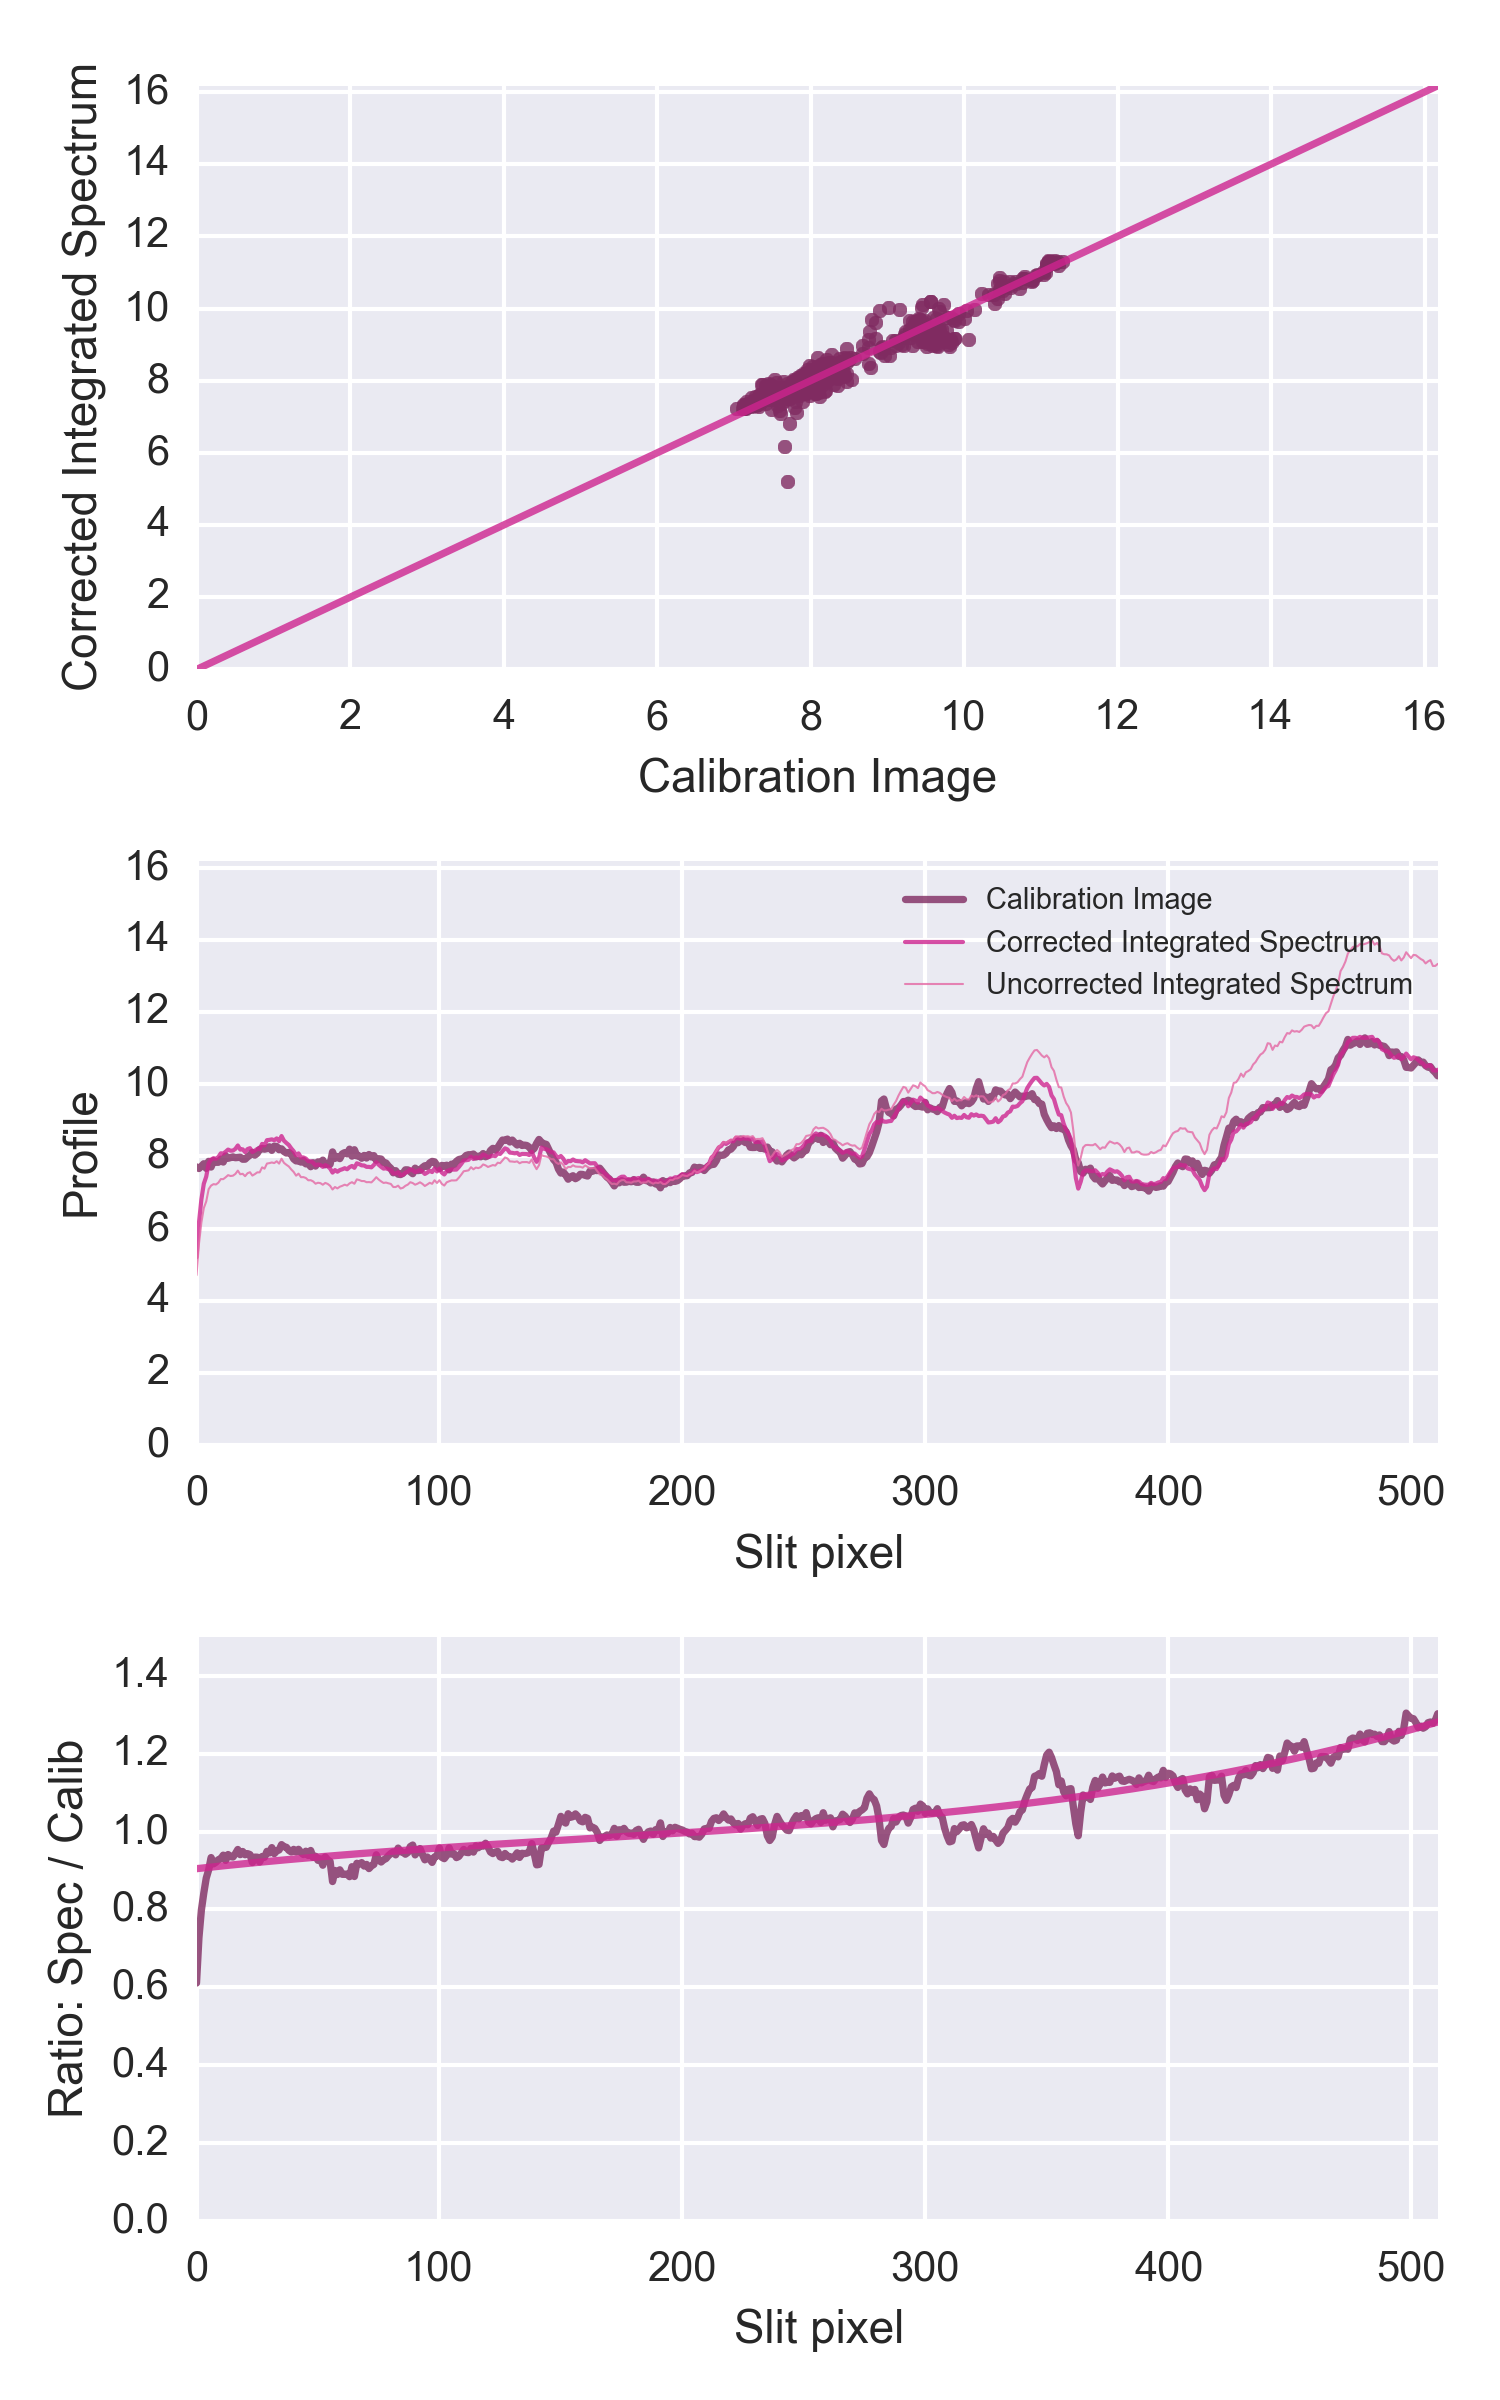
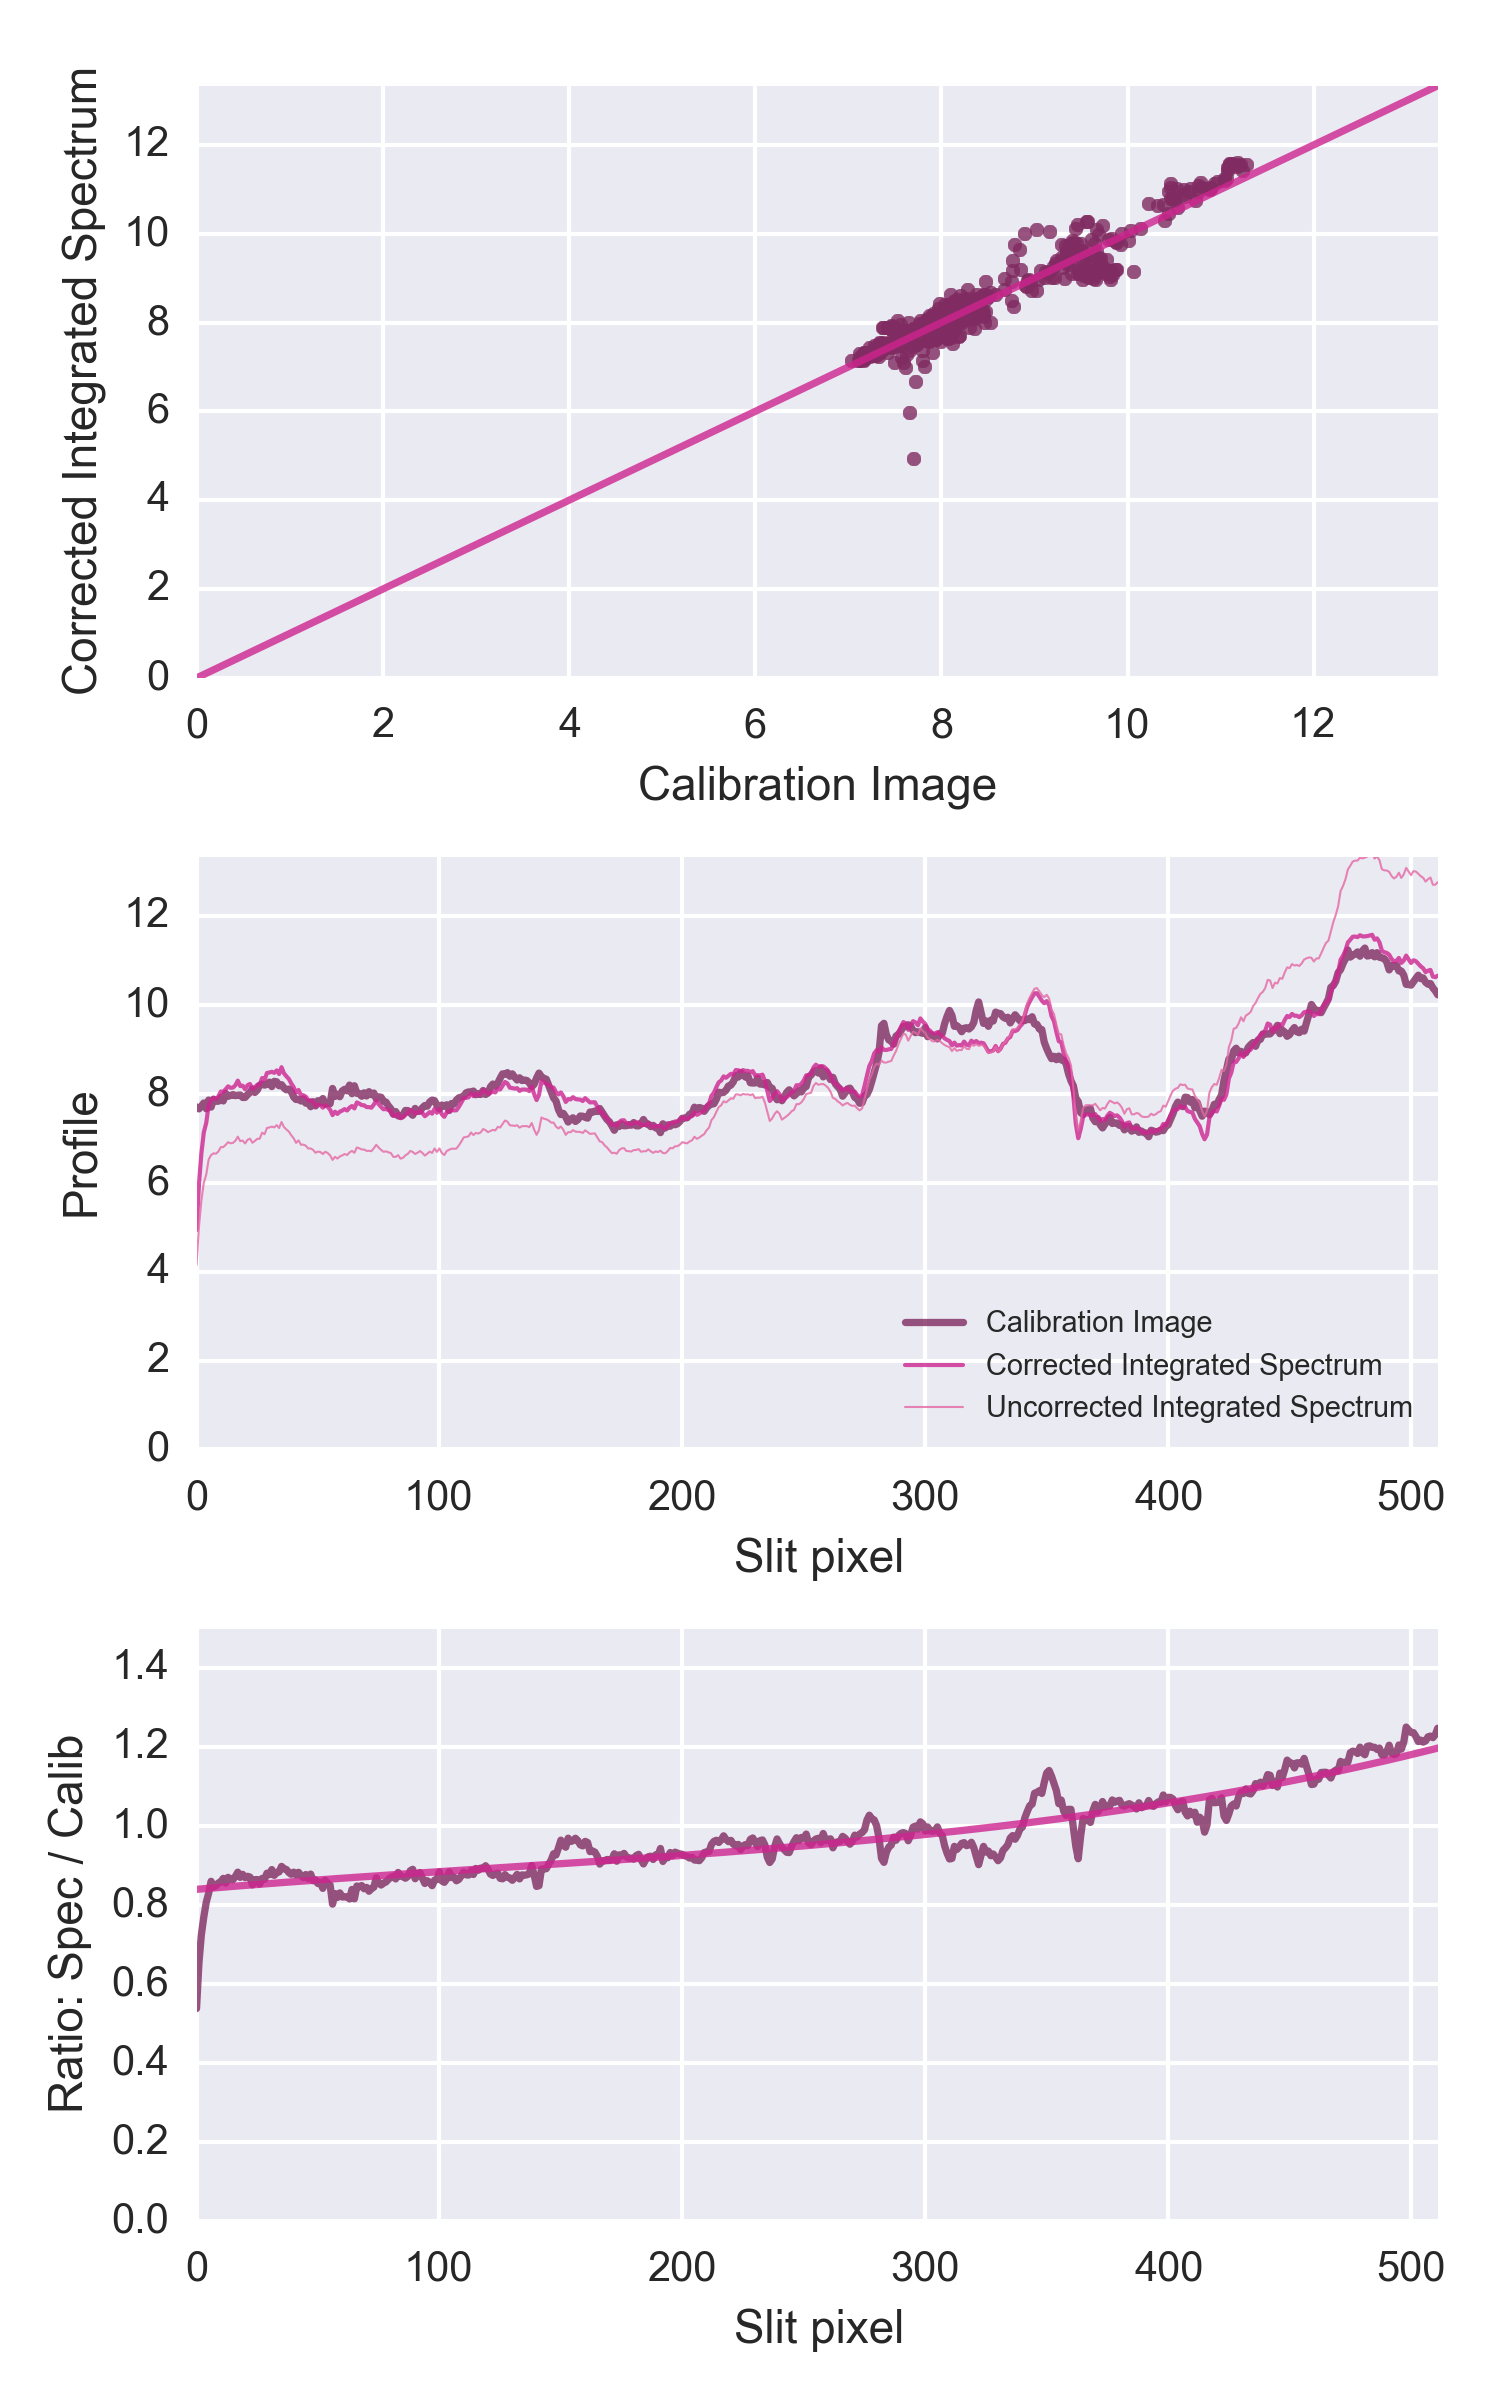
Nearly finish slit calibration
* Deal with varying binning between image and spectrum
* Deal with images that have Dec before RA
* Improve the flux zero point calibration - measure the background
  directly on the spectra
* Fix linear bg oversubtracti=on in some spectra

diff --git a/slit-calibration.py b/slit-calibration.py
@@ -33,7 +33,7 @@ file_templates = {
     'ha' : {
         '2006-02': 'Work/SPM2007/Reduced/HH505/slits/SPMha/spec{}-halpha.fits',
         '2007-01b': 'Work/SPM2007/Reduced/HH505/slits/reducciones/spec{}-ha.fits',
-        '2007-01': 'Work/SPM2007/Reduced/spec{}-ha.fits',
+        '2007-01': 'Work/SPM2007/Reduced/spec{}-ha-fix.fits',
         '2010-01': 'Dropbox/SPMJAN10/reducciones/spec{}-ha.fits',
         '2013-02': 'Dropbox/SPMFEB13/WesternShocks/spec{}-ha.fits',
         '2013-12': 'Dropbox/papers/LL-Objects/SPMDIC13/spec{}-ha.fits',
@@ -42,7 +42,7 @@ file_templates = {
     'nii' : {
         '2006-02': 'Work/SPM2007/Reduced/HH505/slits/SPMnii/spec{}-nii.fits',
         '2007-01b': 'Work/SPM2007/Reduced/HH505/slits/reducciones/spec{}-nii.fits',
-        '2007-01': 'Work/SPM2007/Reduced/spec{}-nii.fits',
+        '2007-01': 'Work/SPM2007/Reduced/spec{}-nii-fix.fits',
         '2010-01': 'Dropbox/SPMJAN10/reducciones/spec{}-nii.fits',
         '2013-02': 'Dropbox/SPMFEB13/WesternShocks/spec{}-nii.fits',
         '2013-12': 'Dropbox/papers/LL-Objects/SPMDIC13/spec{}-nii.fits',
@@ -92,13 +92,13 @@ photom, = fits.open(os.path.join(wfi_dir, 'Orion_H_A_deep.fits'))
 wphot = WCS(photom.header)
 # Construct\ the\ synthetic\ slit\ from\ the\ reference\ image:1 ends here
 
-# [[file:alba-orion-west.org::*Find%20the%20world%20coordinates%20of%20each%20pixel%20along%20the%20slit][Find\ the\ world\ coordinates\ of\ each\ pixel\ along\ the\ slit:1]]
-def find_slit_coords(db, hdr):
+# [[nil][Find\ the\ world\ coordinates\ of\ each\ pixel\ along\ the\ slit:1]]
+def find_slit_coords(db, hdr, shdr):
     """Find the coordinates of all the pixels along a spectrograph slit
 
     Input arguments are a dict-like 'db' of hand-measured values (must
-    contain 'saxis', 'islit' and 'shift') and a FITS header 'hdr' from
-    the image+slit exposure.
+    contain 'saxis', 'islit' and 'shift') and a FITS headers 'hdr' from
+    the image+slit exposure and 'shdr' from a spectrum exposure
 
     Returns a dict of 'ds' (slit pixel scale), 'PA' (slit position
     angle), 'RA' (array of RA values in degrees along slit), 'Dec'
@@ -114,23 +114,38 @@ def find_slit_coords(db, hdr):
     # Pixel coords of each slit pixel on image (in 0-based convention)
     if jstring == '1':
         # Slit is horizontal in IMAGE coords
-        ns = hdr['NAXIS1']
+        ns = shdr['NAXIS1']
         iarr = np.arange(ns) - float(db['shift'])
         jarr = np.ones(ns)*float(db['islit'])
+        image_binning = hdr['CBIN']
+        spec_binning = shdr['CBIN']
+        # correct for difference in binning between the image+slit and the spectrum
+        iarr *= spec_binning/image_binning
     elif jstring == '2':
         # Slit is vertical in IMAGE coords
-        ns = hdr['NAXIS2']
+        ns = shdr['NAXIS2']
         iarr = np.ones(ns)*float(db['islit'])
         jarr = np.arange(ns) - float(db['shift'])
+        image_binning = hdr['RBIN']
+        spec_binning = shdr['RBIN']
+        jarr *= spec_binning/image_binning
     else:
         raise ValueError('Slit axis (saxis) must be 1 or 2')
 
+    print('iarr =', iarr[::100], 'jarr =', jarr[::100])
+    # Also correct the nominal slit plate scale
+    ds *= spec_binning/image_binning
+  
     # Convert to world coords, using the native frame
     w = WCS(hdr)
     observed_frame = w.wcs.radesys.lower()
-    coords = SkyCoord(*w.all_pix2world(iarr, jarr, 0),
+    # Note it is vital to ensure the pix2world transformation returns
+    # values in the order (RA, Dec), even if the image+slit may have
+    # Dec first
+    coords = SkyCoord(*w.all_pix2world(iarr, jarr, 0, ra_dec_order=True),
                       unit=(u.deg, u.deg), frame=observed_frame)
-
+    print('coords =', coords[::100])
+    print('Binning along slit: image =', image_binning, 'spectrum =', spec_binning)
     # Make sure to return the coords in the ICRS frame
     return {'ds': ds, 'PA': PA,
             'RA': coords.icrs.ra.value,
@@ -155,13 +170,13 @@ def make_three_plots(spec, calib, prefix):
     assert spec.shape == calib.shape
     fig, axes = plt.subplots(3, 1)
 
-    vmin, vmax = 0.0, 2.5*np.median(calib) 
+    vmin, vmax = 0.0, np.median(calib) + 5*calib.std()
 
     ypix = np.arange(len(calib))
     ratio = spec/calib
-    mask = (ypix > 10.0) & (ypix < 600.0) \
-           & (ratio > 0.6*np.median(ratio)) \
-           & (ratio < 1.3*np.median(ratio)) 
+    mask = (ypix > 10.0) & (ypix < ypix.max() - 10.0) \
+           & (ratio > np.median(ratio) - 2*ratio.std()) \
+           & (ratio < np.median(ratio) + 2*ratio.std()) 
     ratio_fit = fit_cheb(ypix, ratio, mask=mask)
 
     alpha = 0.8
@@ -180,7 +195,7 @@ def make_three_plots(spec, calib, prefix):
     axes[1].plot(ypix, spec, alpha=alpha, lw=0.5, label='Uncorrected Integrated Spectrum')
     axes[1].set_xlim(0.0, ypix.max())
     axes[1].set_ylim(vmin, vmax)
-    axes[1].legend(fontsize='xx-small')
+    axes[1].legend(fontsize='xx-small', loc='lower right')
     axes[1].set_xlabel('Slit pixel')
     axes[1].set_ylabel('Profile')
 
@@ -220,7 +235,7 @@ for row in tab:
     niihdu = fits.open(niifile)[0]
 
     # World coordinates along slit
-    slit_coords = find_slit_coords(row, imhdu.header)
+    slit_coords = find_slit_coords(row, imhdu.header, hahdu.header)
 
     # Find synthetic profile from calibration image
     calib_profile = slit_profile(slit_coords['RA'], slit_coords['Dec'],
@@ -228,10 +243,9 @@ for row in tab:
 
     # Find actual profile along slit from spectrum
     wavaxis = row['saxis'] - 1  # This always seems to be true
-    ha_profile = hahdu.data.sum(axis=wavaxis)
-    nii_profile = niihdu.data.sum(axis=wavaxis)
+    ha_profile = (hahdu.data - row['zero']).sum(axis=wavaxis)
+    nii_profile = (niihdu.data - row['zero']).sum(axis=wavaxis)
     spec_profile = (ha_profile+1.333*nii_profile)/row['norm']
-    spec_profile -= row['zero']
     plt_prefix = 'plots/{:03d}-{}-calib'.format(row.index, full_id)
     make_three_plots(spec_profile, calib_profile, plt_prefix)
 # Loop\ over\ the\ slit\ positions\ and\ do\ the\ stuff:1 ends here
